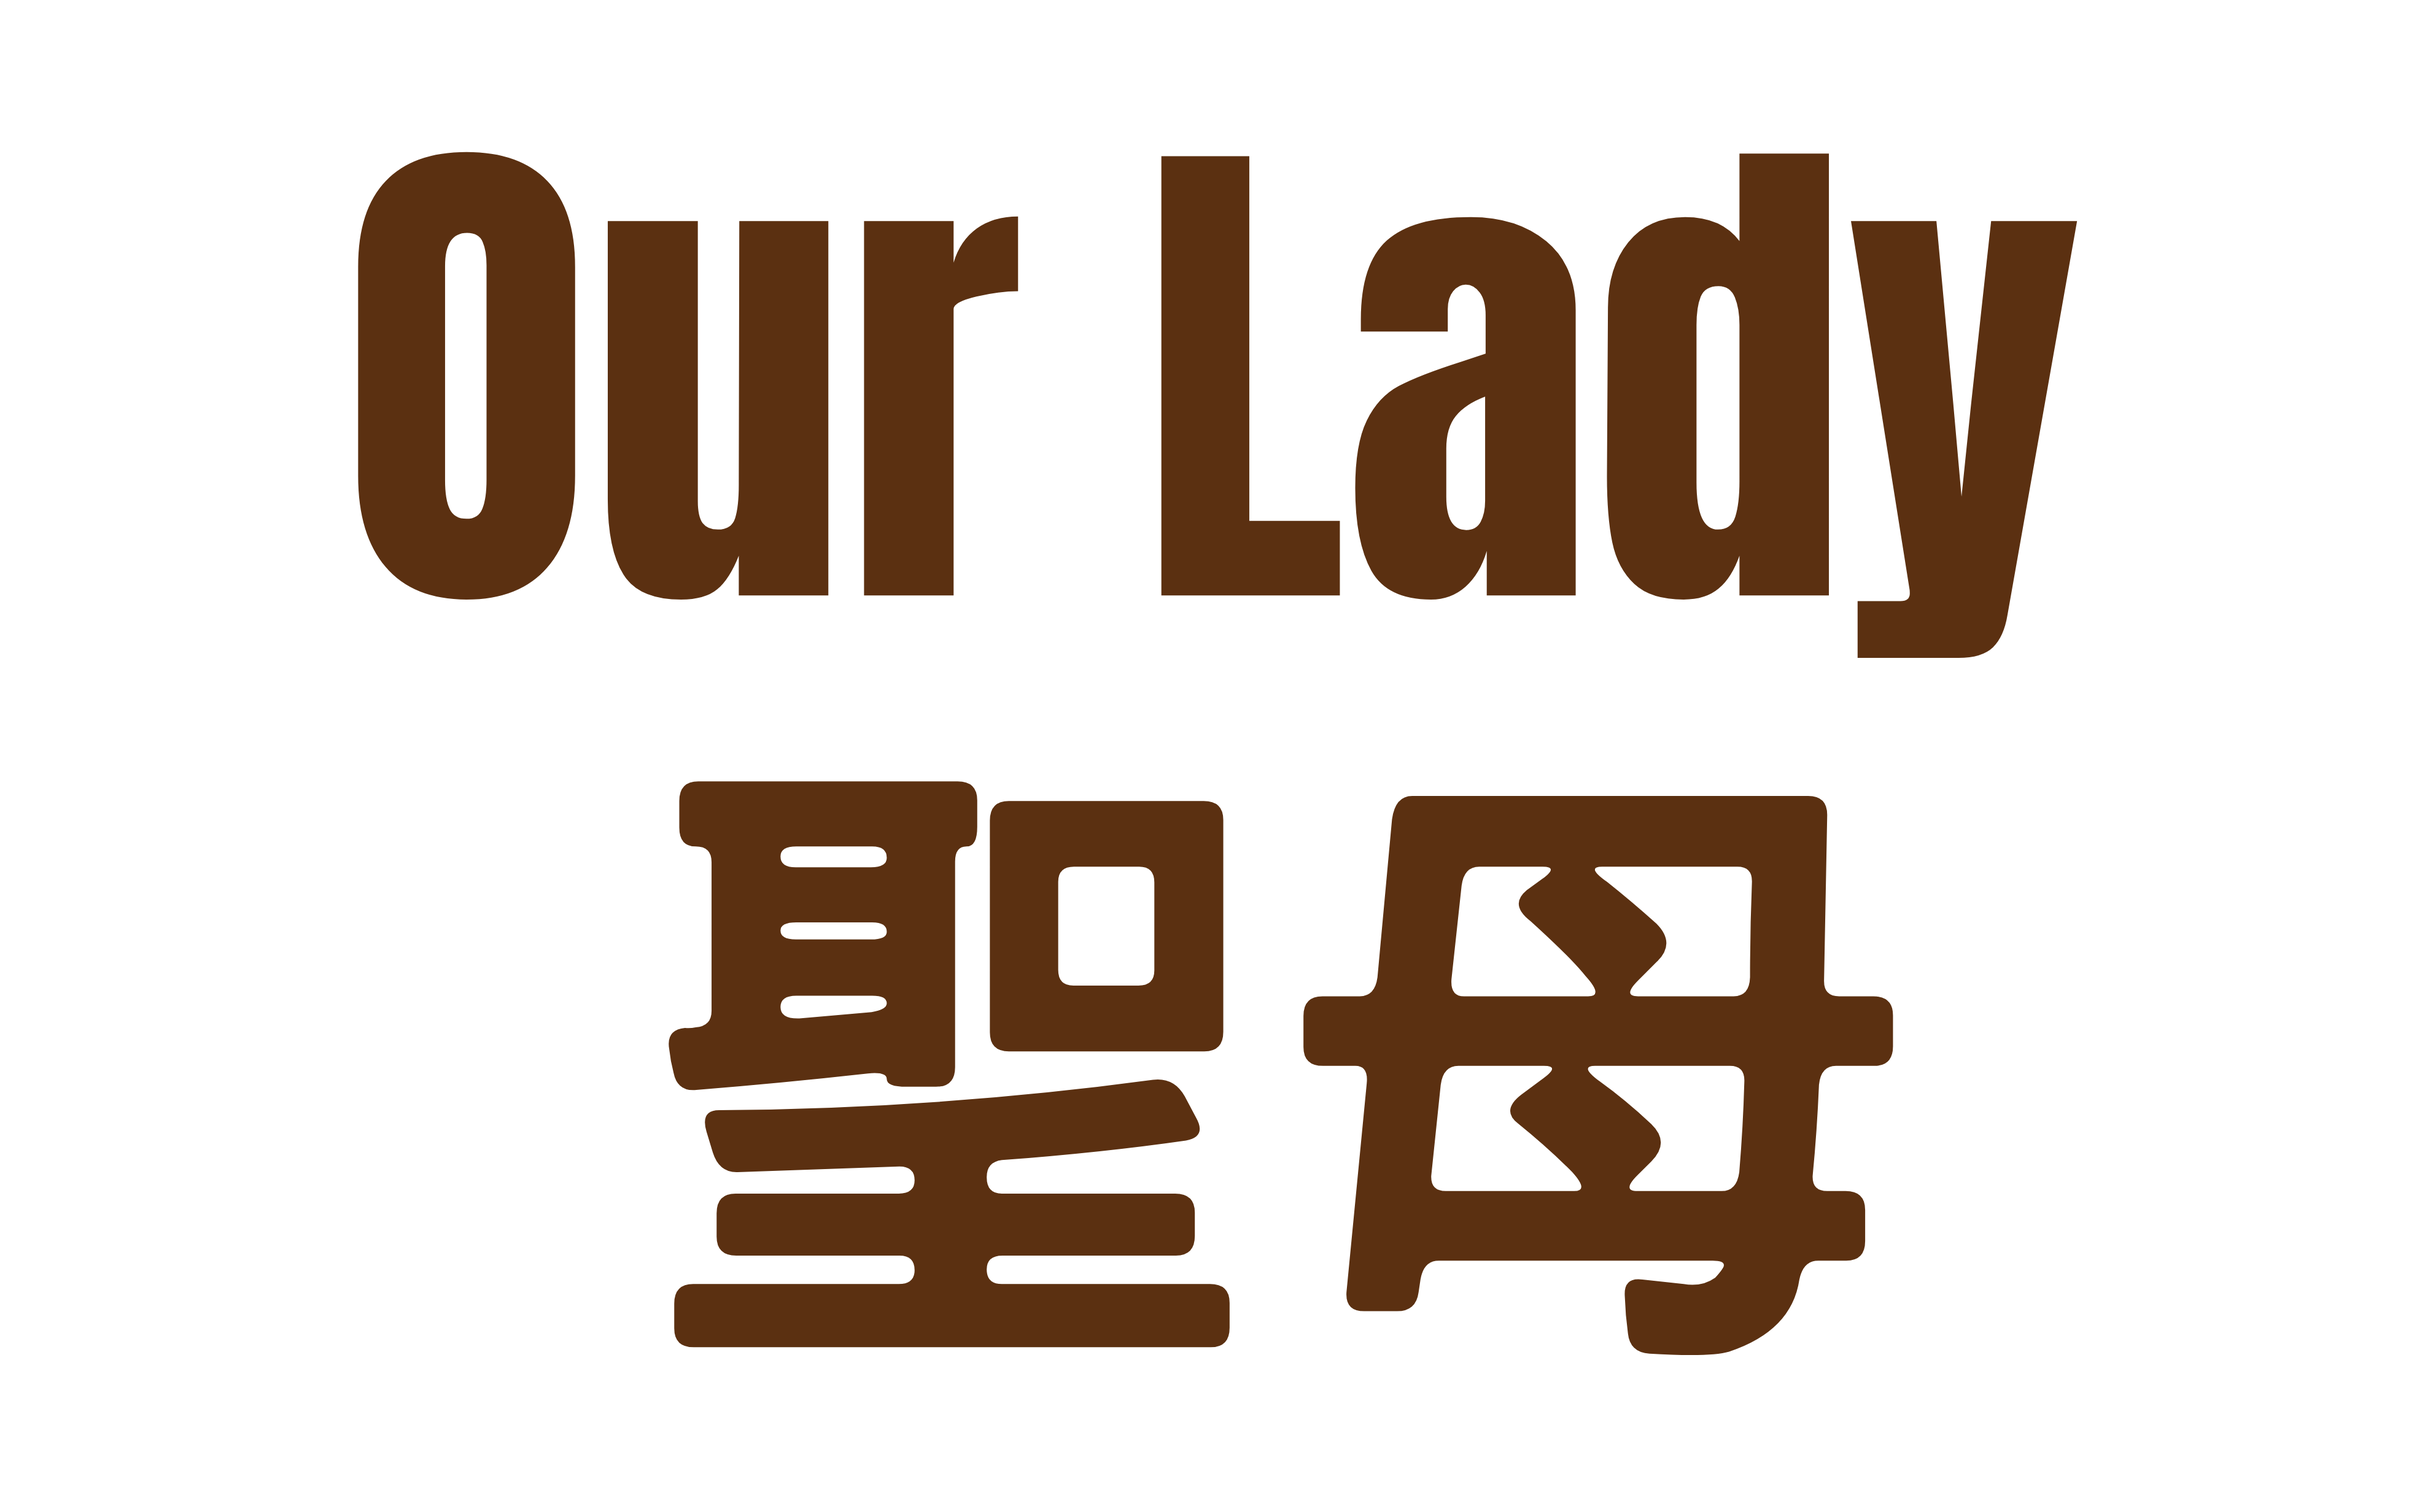
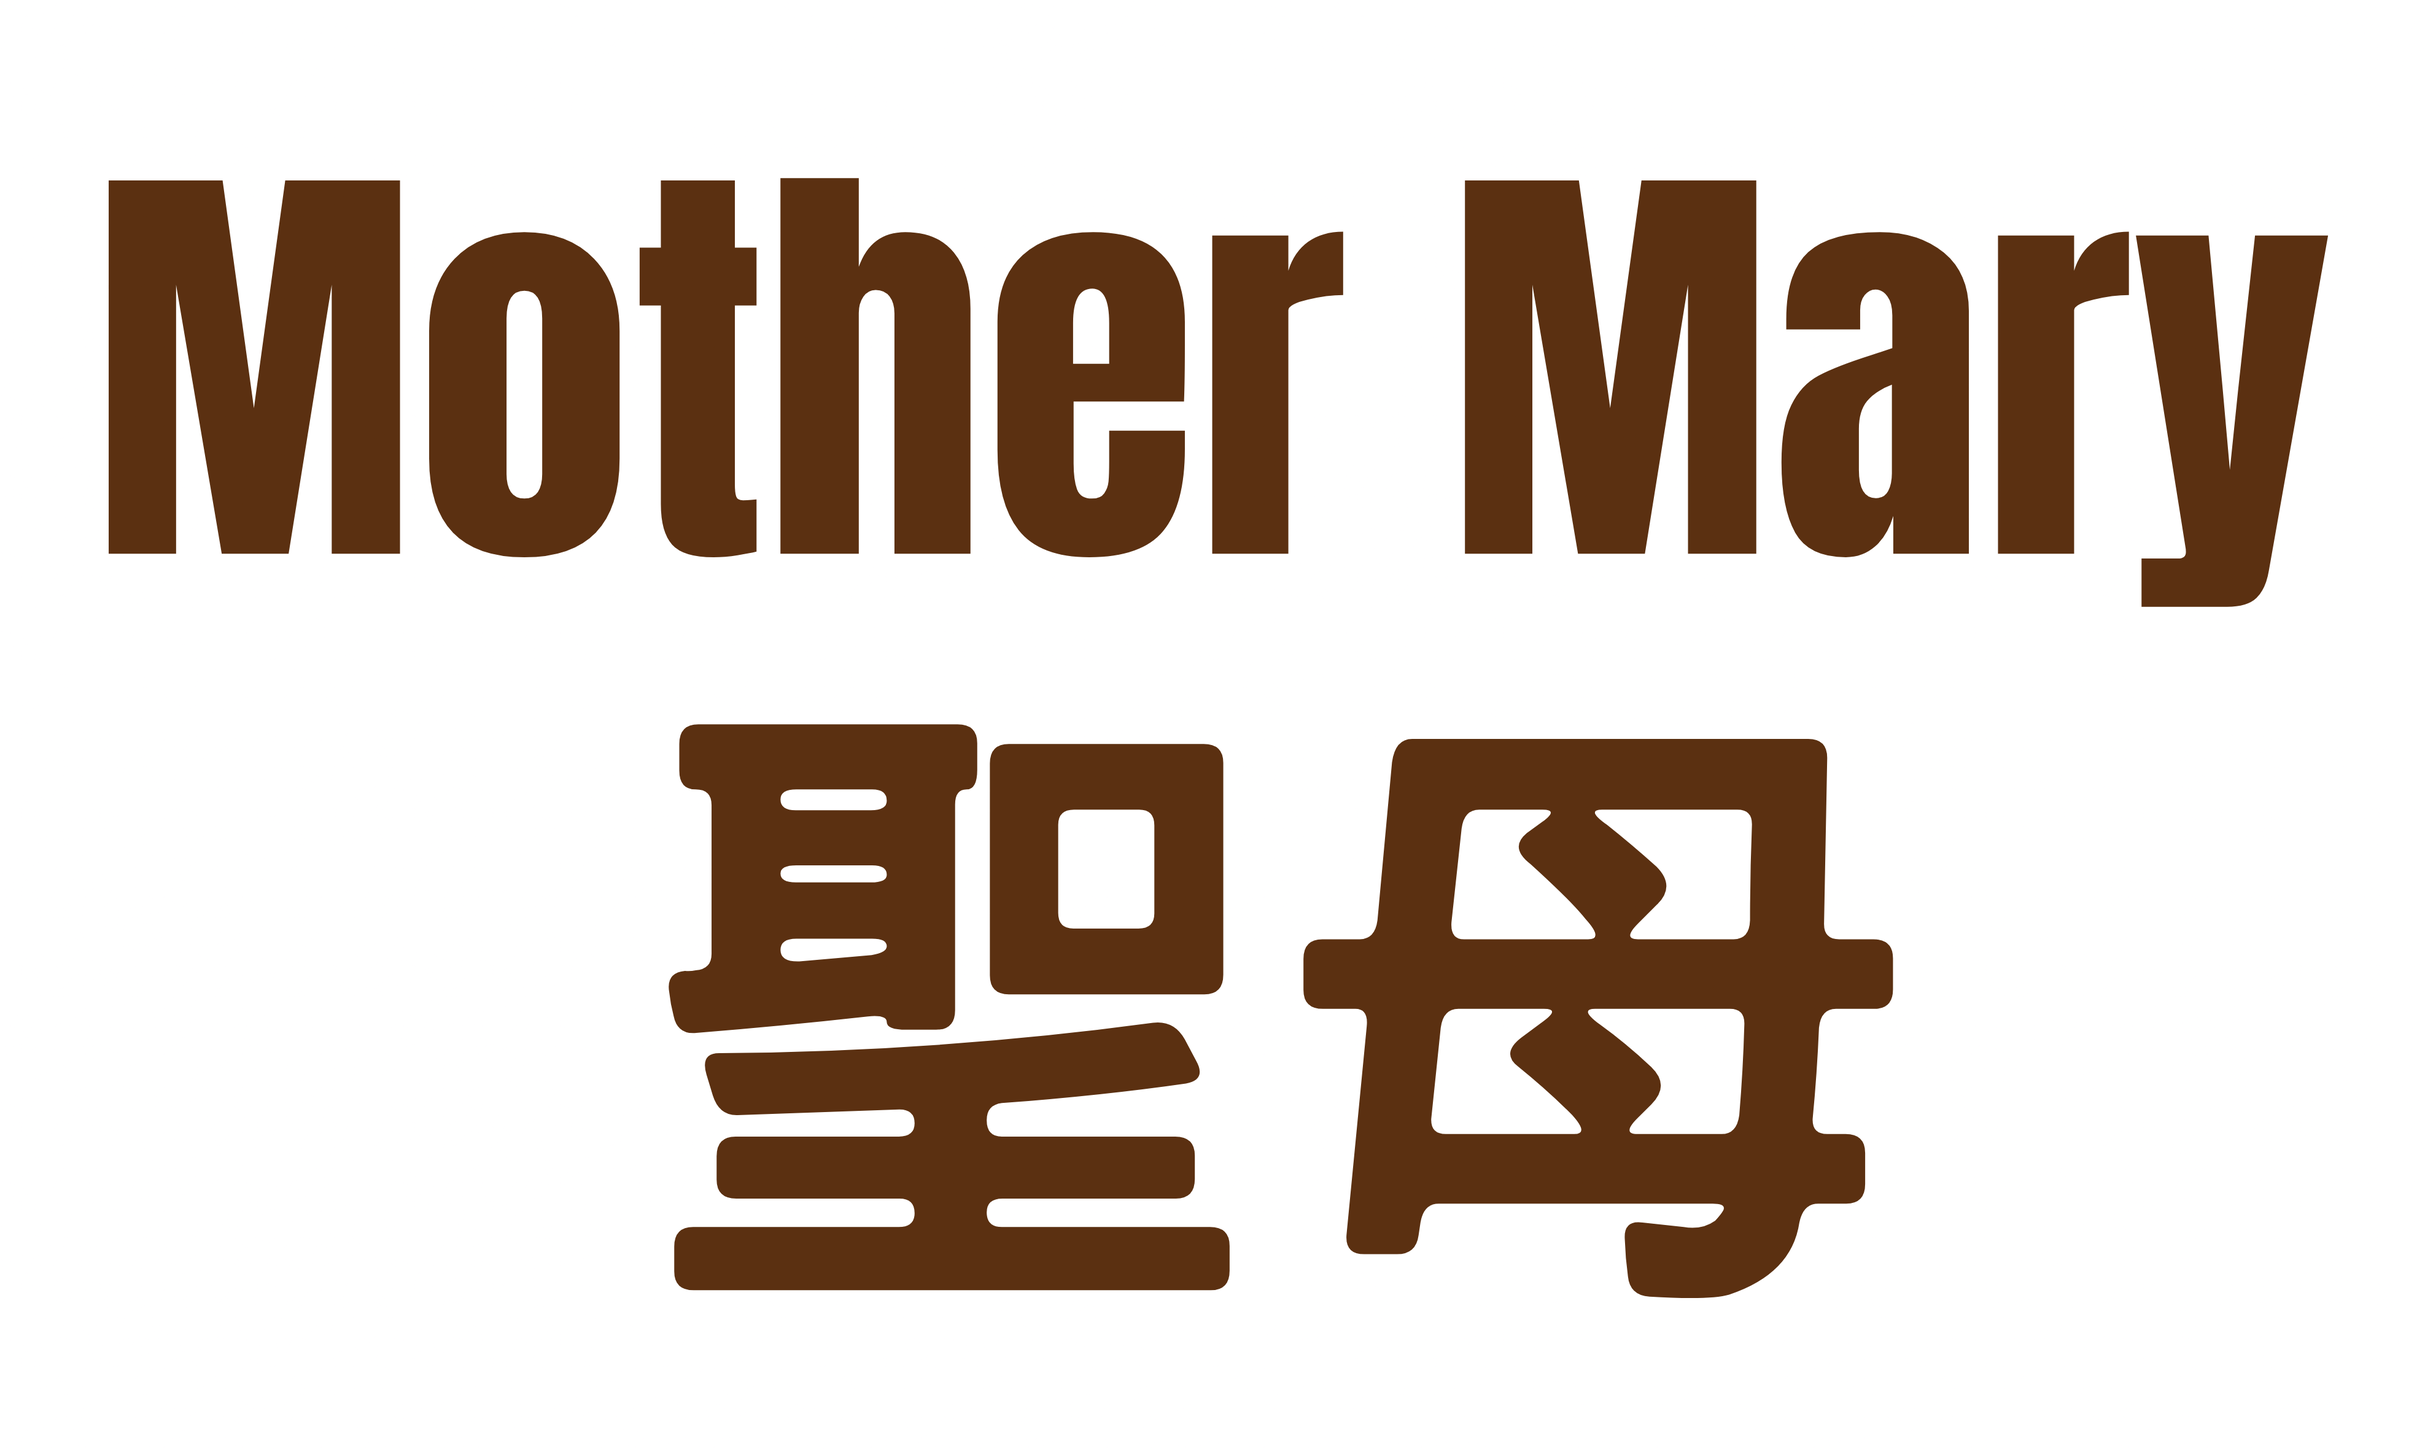
Correct the English terms of the words
Update the images with correct English terms

diff --git a/bingo_app.py b/bingo_app.py
@@ -29,7 +29,7 @@ words_with_images = {
     "最後晚餐 Last Supper": "images/lastsupper.png",
     "希望之光 Light of Hope": "images/light_of_hope.png",
     "五餅二魚 Loaves & Fishes": "images/loaves_fishes.png",
-    "聖母 Our Lady": "images/mary.png",
+    "聖母 Mother Mary": "images/mary.png",
     "彌撒中心 Mass Centre": "images/mass_centre.png",
     "St. Matthew": "images/matthew.png",
     "St. Paul": "images/paul.png",
@@ -38,13 +38,13 @@ words_with_images = {
     "教宗 Pope": "images/pope.png",
     "祈禱 Pray": "images/prayer.png",
     "彩虹 Rainbow": "images/rainbow.png",
-    "讀經員 Readers": "images/readers.png",
+    "讀經員 Lector": "images/readers.png",
     "復活 Resurrection": "images/resurrection.png",
     "團聚 Reunion": "images/reunion.png",
     "宿霧聖嬰 Santo Nino": "images/santonino.png",
     "牧羊人 Shepherd": "images/shepherd.png",
     "St. Simon": "images/simon.png",
-    "紀念品 Souvenir": "images/shepherd.png",
+    "紀念品 Souvenir": "images/souvenir.png",
     "聖猶達堂 St. Jude's Church": "images/stjudeschurch.png",
     "St. Thomas": "images/thomas.png",
 }
